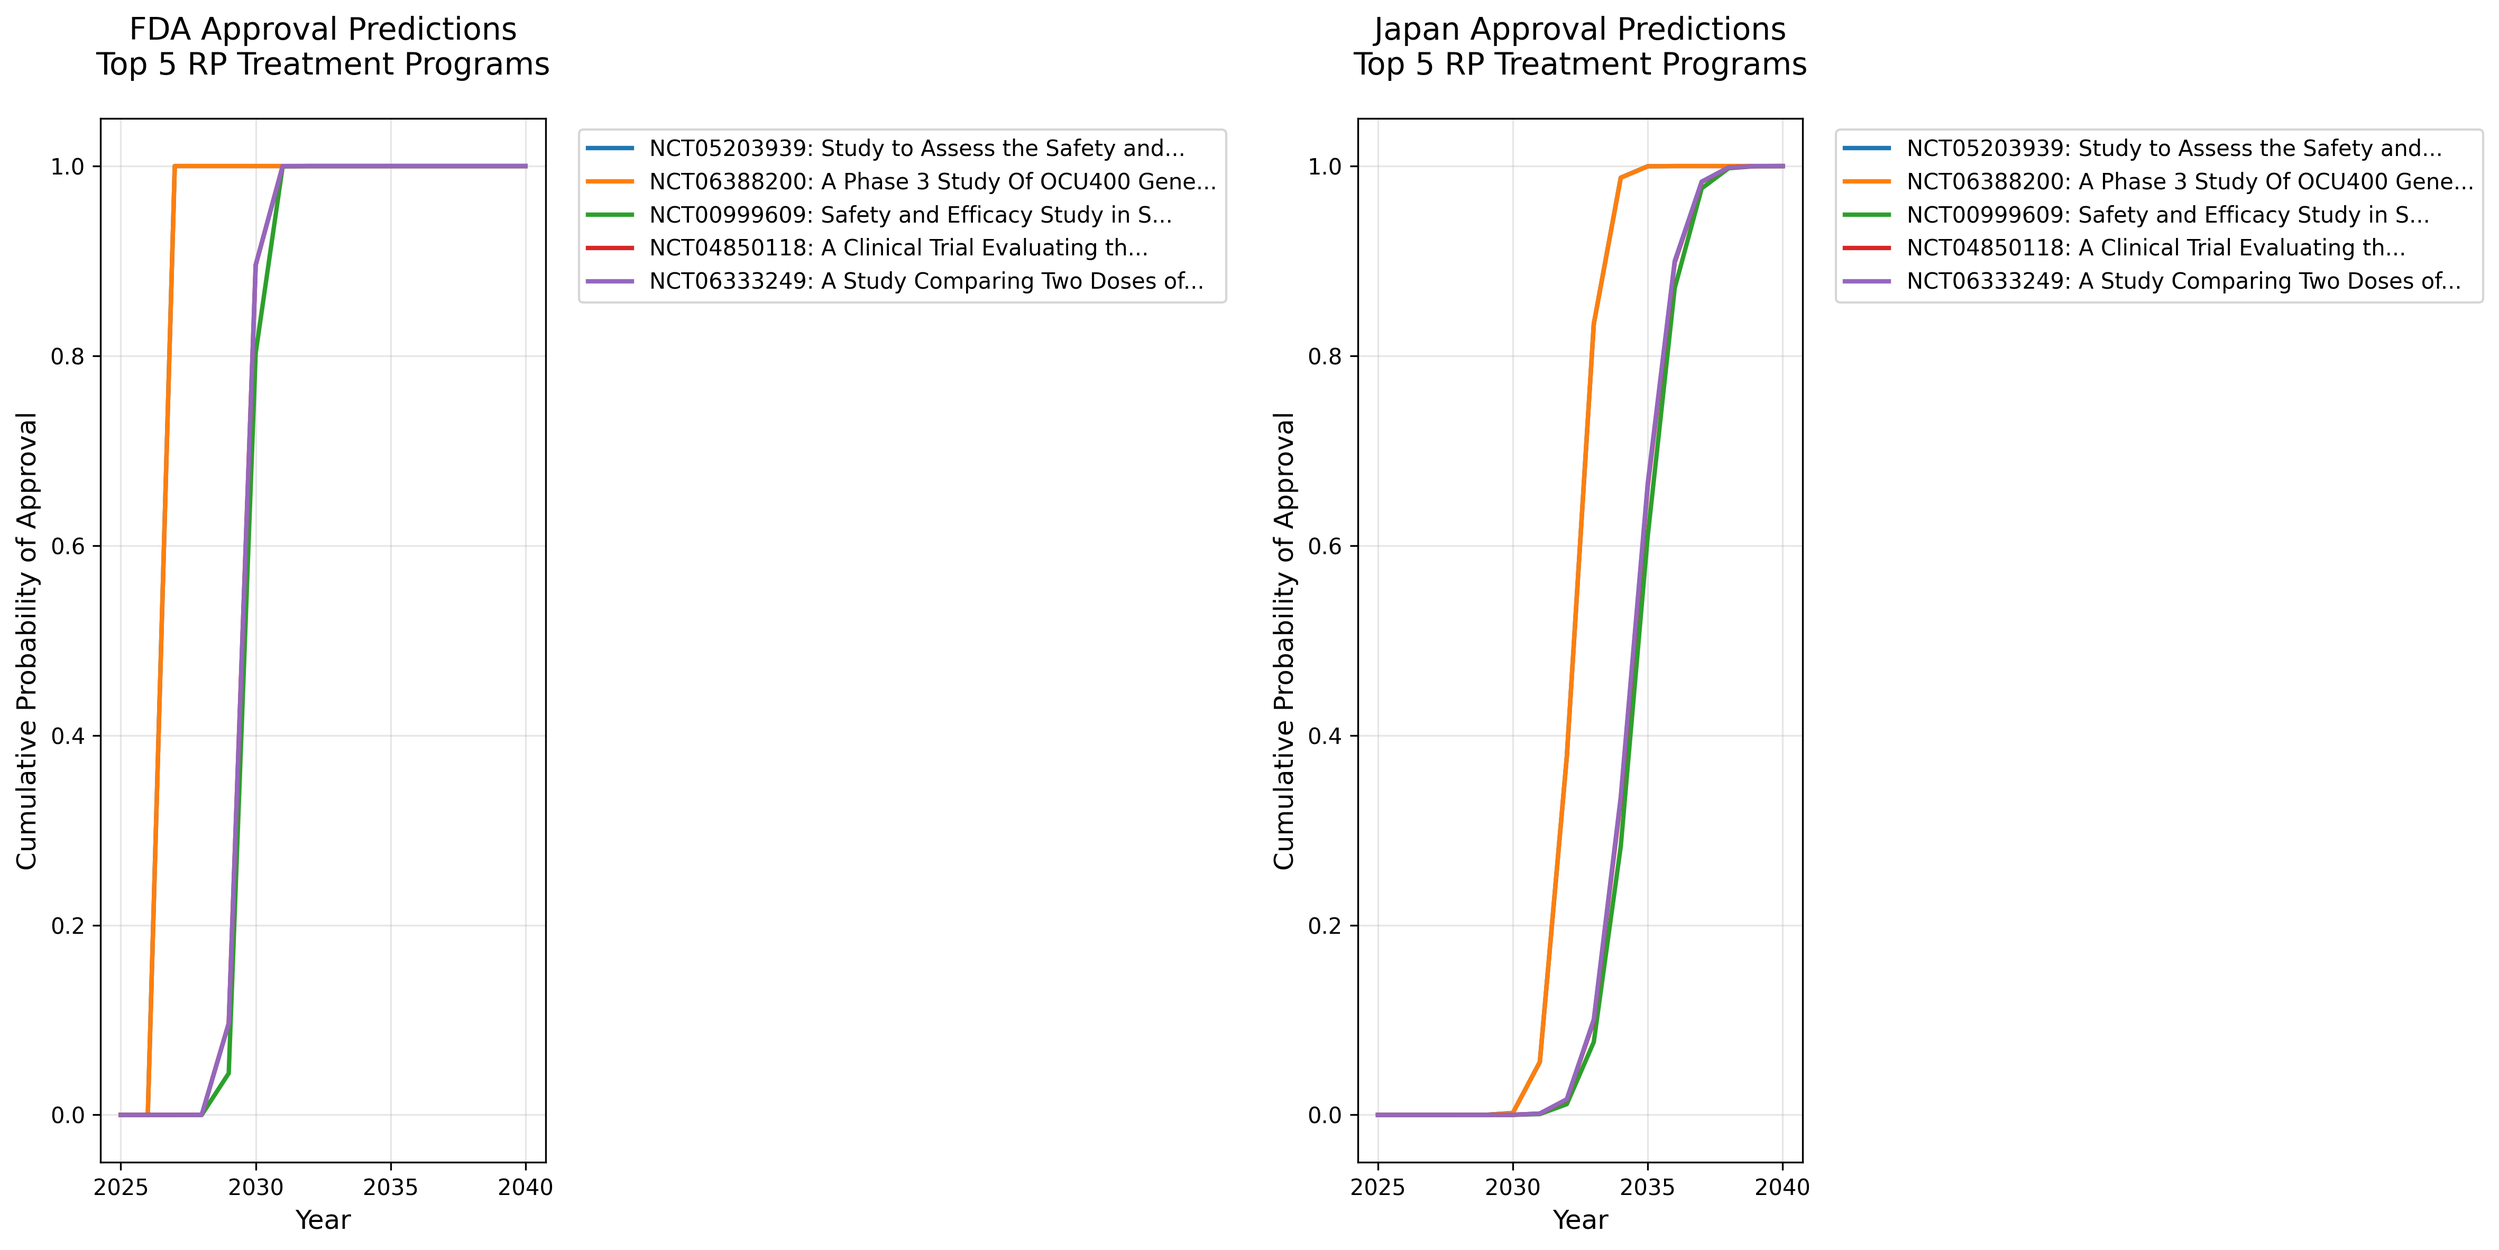
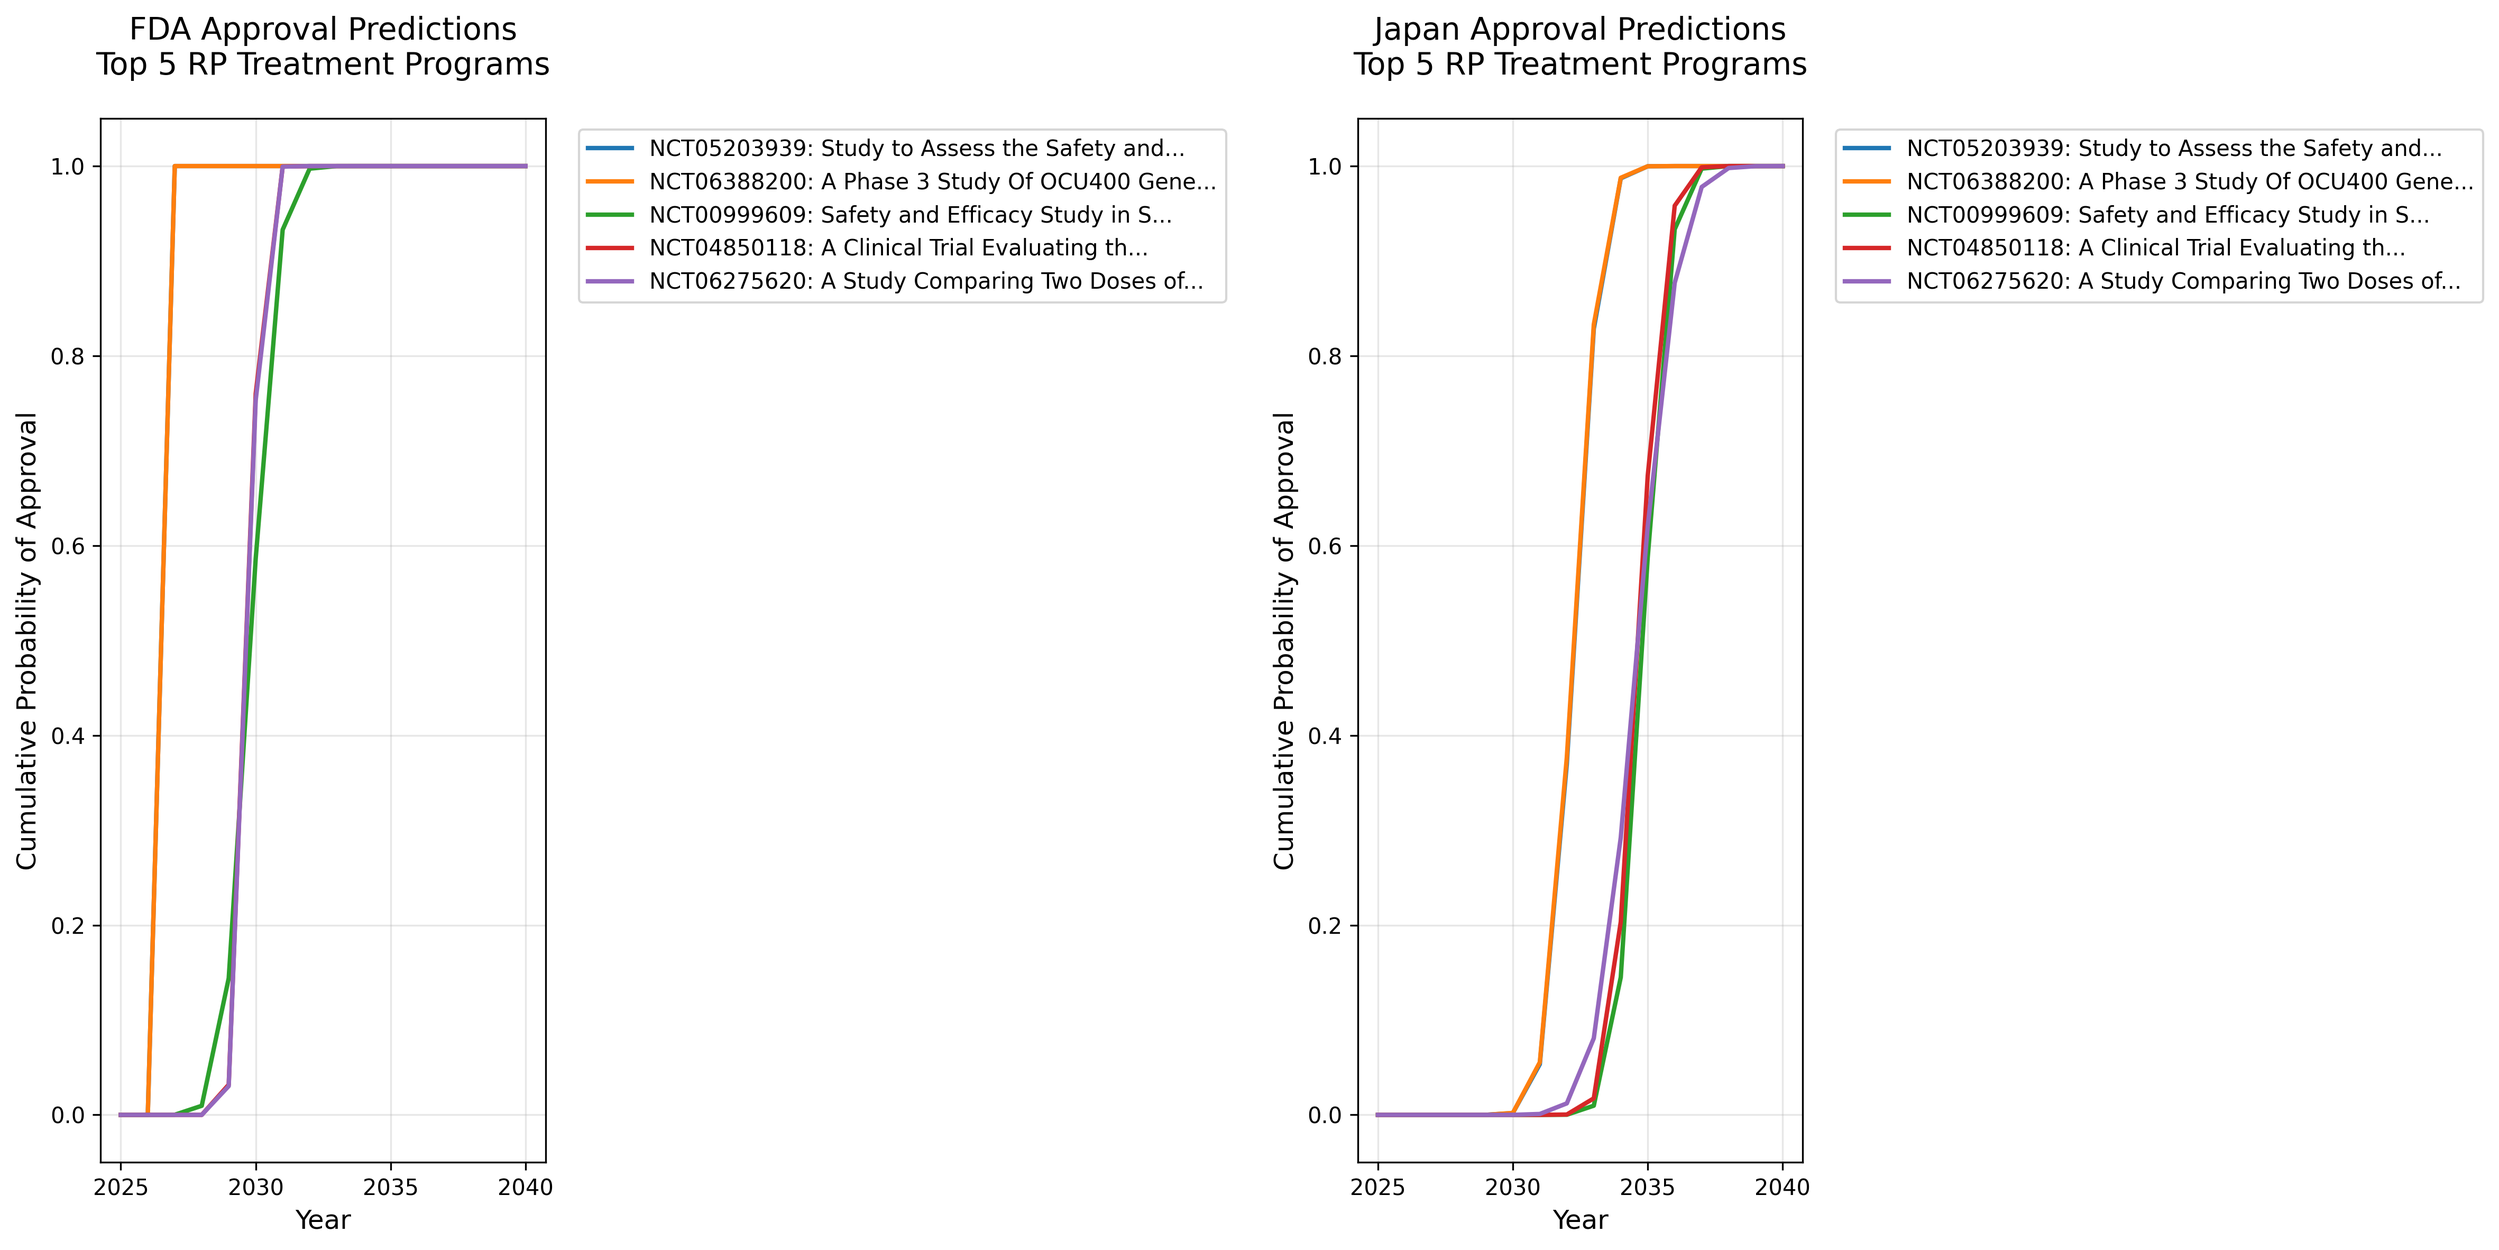
deploy: 39242694ccb8804c6a3a86e3a8fc95ccf287dc17

diff --git a/public/report.html b/public/report.html
@@ -189,7 +189,7 @@
         </nav>
         
         <h1>網膜色素変性症（RP）治療開発ロードマップ</h1>
-<p>生成日時: 2026年01月03日 13:00</p>
+<p>生成日時: 2026年02月27日 03:41</p>
 <h2>エグゼクティブサマリー</h2>
 <p>本レポートは、網膜色素変性症（Retinitis Pigmentosa, RP）の治療法開発状況を定量的に分析し、効果的な治療法がいつ頃利用可能になるかを予測したものです。</p>
 <h3>主要な発見（米国FDA承認基準）</h3>
@@ -197,7 +197,7 @@
 <li><strong>最速の承認予測</strong>: 2026年（MCO-010光遺伝学治療）</li>
 <li>根拠: <a href="https://clinicaltrials.gov/study/NCT04945772" rel="noopener noreferrer" target="_blank">https://clinicaltrials.gov/study/NCT04945772</a></li>
 <li><strong>全体の中央値</strong>: 2037年（複数の治療法が利用可能になる時期）</li>
-<li><strong>現在アクティブな臨床試験</strong>: 56件（重要な完了試験含む）</li>
+<li><strong>現在アクティブな臨床試験</strong>: 59件（重要な完了試験含む）</li>
 <li><strong>成功率</strong>: Phase 1: 86.2%, Phase 2: 78.4%, Phase 3: 71.4%</li>
 </ul>
 <p>⚠ <strong>重要</strong>: 上記の予測は<strong>米国FDA承認</strong>を基準としています。<br/>
@@ -208,14 +208,14 @@
 <h3>臨床試験データ</h3>
 <ul>
 <li><strong>データソース</strong>: ClinicalTrials.gov</li>
-<li><strong>総試験数</strong>: 132件</li>
-<li><strong>アクティブな試験</strong>: 53件</li>
+<li><strong>総試験数</strong>: 135件</li>
+<li><strong>アクティブな試験</strong>: 56件</li>
 <li><strong>完了した試験</strong>: 52件</li>
 </ul>
 <h3>文献データ</h3>
 <ul>
 <li><strong>データソース</strong>: PubMed</li>
-<li><strong>総論文数</strong>: 853件</li>
+<li><strong>総論文数</strong>: 860件</li>
 <li><strong>検索クエリ</strong>: "retinitis pigmentosa" AND ("gene therapy" OR "cell therapy")</li>
 <li><strong>期間</strong>: 1993-2026年</li>
 </ul>
@@ -230,11 +230,11 @@
 <tbody>
 <tr>
 <td>2026</td>
-<td data-label="論文数">2</td>
+<td data-label="論文数">14</td>
 </tr>
 <tr>
 <td>2025</td>
-<td data-label="論文数">88</td>
+<td data-label="論文数">83</td>
 </tr>
 <tr>
 <td>2024</td>
@@ -297,10 +297,10 @@
 <td data-label="治療法名">Safety and Efficacy Study in Subjects Wi...</td>
 <td data-label="フェーズ">PHASE3</td>
 <td data-label="スポンサー">Spark Therapeutics, Inc.</td>
-<td data-label="成功率">72.1%</td>
+<td data-label="成功率">72.4%</td>
 <td data-label="FDA承認予測（中央値）">2030年</td>
 <td data-label="日本承認予測（中央値）">2035年</td>
-<td data-label="90%信頼区間（FDA）">[2029, 2030]</td>
+<td data-label="90%信頼区間（FDA）">[2029, 2031]</td>
 </tr>
 <tr>
 <td>NCT04850118</td>
@@ -310,16 +310,6 @@
 <td data-label="成功率">100.0%</td>
 <td data-label="FDA承認予測（中央値）">2030年</td>
 <td data-label="日本承認予測（中央値）">2035年</td>
-<td data-label="90%信頼区間（FDA）">[2029, 2030]</td>
-</tr>
-<tr>
-<td>NCT06333249</td>
-<td data-label="治療法名">A Study Comparing Two Doses of AGTC-501 ...</td>
-<td data-label="フェーズ">PHASE2</td>
-<td data-label="スポンサー">Beacon Therapeutics</td>
-<td data-label="成功率">100.0%</td>
-<td data-label="FDA承認予測（中央値）">2030年</td>
-<td data-label="日本承認予測（中央値）">2034年</td>
 <td data-label="90%信頼区間（FDA）">[2029, 2030]</td>
 </tr>
 <tr>
@@ -333,11 +323,21 @@
 <td data-label="90%信頼区間（FDA）">[2029, 2030]</td>
 </tr>
 <tr>
-<td>NCT07082855</td>
-<td data-label="治療法名">A Multicenter, Randomized, Double-Blind,...</td>
+<td>NCT06333249</td>
+<td data-label="治療法名">A Study Comparing Two Doses of AGTC-501 ...</td>
+<td data-label="フェーズ">PHASE2</td>
+<td data-label="スポンサー">Beacon Therapeutics</td>
+<td data-label="成功率">100.0%</td>
+<td data-label="FDA承認予測（中央値）">2030年</td>
+<td data-label="日本承認予測（中央値）">2035年</td>
+<td data-label="90%信頼区間（FDA）">[2029, 2030]</td>
+</tr>
+<tr>
+<td>NCT07290530</td>
+<td data-label="治療法名">24-Month Trial of NPI-001 for the Preser...</td>
 <td data-label="フェーズ">PHASE3</td>
-<td data-label="スポンサー">Zhongshan Ophthalmic Center, Sun Yat-sen University</td>
-<td data-label="成功率">71.1%</td>
+<td data-label="スポンサー">Nacuity Pharmaceuticals, Inc.</td>
+<td data-label="成功率">71.6%</td>
 <td data-label="FDA承認予測（中央値）">2033年</td>
 <td data-label="日本承認予測（中央値）">2038年</td>
 <td data-label="90%信頼区間（FDA）">[2032, 2034]</td>
@@ -347,17 +347,17 @@
 <td data-label="治療法名">Oral N-acetylcysteine for Retinitis Pigm...</td>
 <td data-label="フェーズ">PHASE3</td>
 <td data-label="スポンサー">Johns Hopkins University</td>
-<td data-label="成功率">71.1%</td>
+<td data-label="成功率">71.9%</td>
 <td data-label="FDA承認予測（中央値）">2033年</td>
 <td data-label="日本承認予測（中央値）">2038年</td>
 <td data-label="90%信頼区間（FDA）">[2032, 2034]</td>
 </tr>
 <tr>
-<td>NCT07290530</td>
-<td data-label="治療法名">24-Month Trial of NPI-001 for the Preser...</td>
+<td>NCT07082855</td>
+<td data-label="治療法名">A Multicenter, Randomized, Double-Blind,...</td>
 <td data-label="フェーズ">PHASE3</td>
-<td data-label="スポンサー">Nacuity Pharmaceuticals, Inc.</td>
-<td data-label="成功率">71.0%</td>
+<td data-label="スポンサー">Zhongshan Ophthalmic Center, Sun Yat-sen University</td>
+<td data-label="成功率">71.7%</td>
 <td data-label="FDA承認予測（中央値）">2033年</td>
 <td data-label="日本承認予測（中央値）">2038年</td>
 <td data-label="90%信頼区間（FDA）">[2032, 2034]</td>
@@ -367,7 +367,7 @@
 <td data-label="治療法名">Long-term Safety and Efficacy Follow-up ...</td>
 <td data-label="フェーズ">PHASE3</td>
 <td data-label="スポンサー">NightstaRx Ltd, a Biogen Company</td>
-<td data-label="成功率">70.9%</td>
+<td data-label="成功率">71.2%</td>
 <td data-label="FDA承認予測（中央値）">2033年</td>
 <td data-label="日本承認予測（中央値）">2038年</td>
 <td data-label="90%信頼区間（FDA）">[2032, 2034]</td>
@@ -405,21 +405,14 @@
 <td>NCT00999609</td>
 <td data-label="FDA承認予測">2030年</td>
 <td data-label="日本承認予測（中央値）"><strong>2035年</strong></td>
-<td data-label="日本承認90%信頼区間">[2033, 2036]</td>
+<td data-label="日本承認90%信頼区間">[2034, 2036]</td>
 <td data-label="遅延期間（中央値）">+5.0年</td>
 </tr>
 <tr>
 <td>NCT04850118</td>
 <td data-label="FDA承認予測">2030年</td>
 <td data-label="日本承認予測（中央値）"><strong>2035年</strong></td>
-<td data-label="日本承認90%信頼区間">[2033, 2036]</td>
-<td data-label="遅延期間（中央値）">+5.0年</td>
-</tr>
-<tr>
-<td>NCT06333249</td>
-<td data-label="FDA承認予測">2030年</td>
-<td data-label="日本承認予測（中央値）"><strong>2034年</strong></td>
-<td data-label="日本承認90%信頼区間">[2033, 2036]</td>
+<td data-label="日本承認90%信頼区間">[2034, 2036]</td>
 <td data-label="遅延期間（中央値）">+5.0年</td>
 </tr>
 <tr>
@@ -430,7 +423,14 @@
 <td data-label="遅延期間（中央値）">+5.0年</td>
 </tr>
 <tr>
-<td>NCT07082855</td>
+<td>NCT06333249</td>
+<td data-label="FDA承認予測">2030年</td>
+<td data-label="日本承認予測（中央値）"><strong>2035年</strong></td>
+<td data-label="日本承認90%信頼区間">[2034, 2036]</td>
+<td data-label="遅延期間（中央値）">+5.0年</td>
+</tr>
+<tr>
+<td>NCT07290530</td>
 <td data-label="FDA承認予測">2033年</td>
 <td data-label="日本承認予測（中央値）"><strong>2038年</strong></td>
 <td data-label="日本承認90%信頼区間">[2036, 2039]</td>
@@ -444,7 +444,7 @@
 <td data-label="遅延期間（中央値）">+5.0年</td>
 </tr>
 <tr>
-<td>NCT07290530</td>
+<td>NCT07082855</td>
 <td data-label="FDA承認予測">2033年</td>
 <td data-label="日本承認予測（中央値）"><strong>2038年</strong></td>
 <td data-label="日本承認90%信頼区間">[2036, 2039]</td>
@@ -463,7 +463,7 @@
 <h3>治療モダリティ別の状況</h3>
 <h4>遺伝子治療</h4>
 <ul>
-<li><strong>試験数</strong>: 34件</li>
+<li><strong>試験数</strong>: 36件</li>
 <li><strong>主要なターゲット遺伝子</strong>: RPGR, RPE65, PDE6A, USH2A</li>
 <li><strong>最速FDA承認予測</strong>: 2026年（MCO-010光遺伝学治療）</li>
 </ul>
@@ -486,7 +486,7 @@
 <ul>
 <li><strong>PHASE2 duration</strong> (increase 20%): +0.8年の影響</li>
 <li><strong>PHASE3 duration</strong> (increase 20%): +0.8年の影響</li>
-<li><strong>PHASE1 duration</strong> (increase 20%): +0.2年の影響</li>
+<li><strong>PHASE1 duration</strong> (increase 20%): +0.6年の影響</li>
 </ul>
 <h2>4. 予測の可視化</h2>
 <h3>累積承認確率</h3>

diff --git a/public/index.html b/public/index.html
@@ -158,7 +158,7 @@
             
             <!-- 更新情報 -->
             <div class="update-info">
-                最終更新: 2026年1月3日 | データソース: ClinicalTrials.gov, PubMed
+                最終更新: 2026年2月27日 | データソース: ClinicalTrials.gov, PubMed
             </div>
             
             <!-- 3つの選択パス -->

diff --git a/content/main/index.md b/content/main/index.md
@@ -1,6 +1,6 @@
 # 網膜色素変性症（RP）治療開発ロードマップ
 
-生成日時: 2026年01月03日 13:00
+生成日時: 2026年02月27日 03:41
 
 ## エグゼクティブサマリー
 
@@ -11,7 +11,7 @@
 - **最速の承認予測**: 2026年（MCO-010光遺伝学治療）
   - 根拠: https://clinicaltrials.gov/study/NCT04945772
 - **全体の中央値**: 2037年（複数の治療法が利用可能になる時期）
-- **現在アクティブな臨床試験**: 56件（重要な完了試験含む）
+- **現在アクティブな臨床試験**: 59件（重要な完了試験含む）
 - **成功率**: Phase 1: 86.2%, Phase 2: 78.4%, Phase 3: 71.4%
 
 ⚠ **重要**: 上記の予測は**米国FDA承認**を基準としています。
@@ -23,21 +23,21 @@
 
 ### 臨床試験データ
 - **データソース**: ClinicalTrials.gov
-- **総試験数**: 132件
-- **アクティブな試験**: 53件
+- **総試験数**: 135件
+- **アクティブな試験**: 56件
 - **完了した試験**: 52件
 
 ### 文献データ
 - **データソース**: PubMed
-- **総論文数**: 853件
+- **総論文数**: 860件
 - **検索クエリ**: "retinitis pigmentosa" AND ("gene therapy" OR "cell therapy")
 - **期間**: 1993-2026年
 
 #### 年別論文数（直近5年）
 | 年 | 論文数 |
 |---|--------|
-| 2026 | 2 |
-| 2025 | 88 |
+| 2026 | 14 |
+| 2025 | 83 |
 | 2024 | 63 |
 | 2023 | 99 |
 | 2022 | 67 |
@@ -56,14 +56,14 @@
 |--------|----------|----------|------------|--------|---------------------|---------------------|------------------|
 | NCT05203939 | Study to Assess the Safety and Efficacy ... | PHASE1, PHASE2 | Ocugen | 100.0% | 2027年 | 2032年 | [2027, 2027] |
 | NCT06388200 | A Phase 3 Study Of OCU400 Gene Therapy f... | PHASE3 | Ocugen | 100.0% | 2027年 | 2032年 | [2027, 2027] |
-| NCT00999609 | Safety and Efficacy Study in Subjects Wi... | PHASE3 | Spark Therapeutics, Inc. | 72.1% | 2030年 | 2035年 | [2029, 2030] |
+| NCT00999609 | Safety and Efficacy Study in Subjects Wi... | PHASE3 | Spark Therapeutics, Inc. | 72.4% | 2030年 | 2035年 | [2029, 2031] |
 | NCT04850118 | A Clinical Trial Evaluating the Safety a... | PHASE2, PHASE3 | Beacon Therapeutics | 100.0% | 2030年 | 2035年 | [2029, 2030] |
-| NCT06333249 | A Study Comparing Two Doses of AGTC-501 ... | PHASE2 | Beacon Therapeutics | 100.0% | 2030年 | 2034年 | [2029, 2030] |
 | NCT06275620 | A Study Comparing Two Doses of AGTC-501 ... | PHASE2 | Beacon Therapeutics | 100.0% | 2030年 | 2035年 | [2029, 2030] |
-| NCT07082855 | A Multicenter, Randomized, Double-Blind,... | PHASE3 | Zhongshan Ophthalmic Center, Sun Yat-sen University | 71.1% | 2033年 | 2038年 | [2032, 2034] |
-| NCT05537220 | Oral N-acetylcysteine for Retinitis Pigm... | PHASE3 | Johns Hopkins University | 71.1% | 2033年 | 2038年 | [2032, 2034] |
-| NCT07290530 | 24-Month Trial of NPI-001 for the Preser... | PHASE3 | Nacuity Pharmaceuticals, Inc. | 71.0% | 2033年 | 2038年 | [2032, 2034] |
-| NCT03584165 | Long-term Safety and Efficacy Follow-up ... | PHASE3 | NightstaRx Ltd, a Biogen Company | 70.9% | 2033年 | 2038年 | [2032, 2034] |
+| NCT06333249 | A Study Comparing Two Doses of AGTC-501 ... | PHASE2 | Beacon Therapeutics | 100.0% | 2030年 | 2035年 | [2029, 2030] |
+| NCT07290530 | 24-Month Trial of NPI-001 for the Preser... | PHASE3 | Nacuity Pharmaceuticals, Inc. | 71.6% | 2033年 | 2038年 | [2032, 2034] |
+| NCT05537220 | Oral N-acetylcysteine for Retinitis Pigm... | PHASE3 | Johns Hopkins University | 71.9% | 2033年 | 2038年 | [2032, 2034] |
+| NCT07082855 | A Multicenter, Randomized, Double-Blind,... | PHASE3 | Zhongshan Ophthalmic Center, Sun Yat-sen University | 71.7% | 2033年 | 2038年 | [2032, 2034] |
+| NCT03584165 | Long-term Safety and Efficacy Follow-up ... | PHASE3 | NightstaRx Ltd, a Biogen Company | 71.2% | 2033年 | 2038年 | [2032, 2034] |
 
 
 ### 日本での承認予測
@@ -74,13 +74,13 @@
 |--------|------------|---------------------|-------------------|---------------------|
 | NCT05203939 | 2027年 | **2032年** | [2031, 2033] | +5.0年 |
 | NCT06388200 | 2027年 | **2032年** | [2031, 2033] | +5.0年 |
-| NCT00999609 | 2030年 | **2035年** | [2033, 2036] | +5.0年 |
-| NCT04850118 | 2030年 | **2035年** | [2033, 2036] | +5.0年 |
-| NCT06333249 | 2030年 | **2034年** | [2033, 2036] | +5.0年 |
+| NCT00999609 | 2030年 | **2035年** | [2034, 2036] | +5.0年 |
+| NCT04850118 | 2030年 | **2035年** | [2034, 2036] | +5.0年 |
 | NCT06275620 | 2030年 | **2035年** | [2033, 2036] | +5.0年 |
-| NCT07082855 | 2033年 | **2038年** | [2036, 2039] | +5.0年 |
-| NCT05537220 | 2033年 | **2038年** | [2036, 2039] | +5.0年 |
+| NCT06333249 | 2030年 | **2035年** | [2034, 2036] | +5.0年 |
 | NCT07290530 | 2033年 | **2038年** | [2036, 2039] | +5.0年 |
+| NCT05537220 | 2033年 | **2038年** | [2036, 2039] | +5.0年 |
+| NCT07082855 | 2033年 | **2038年** | [2036, 2039] | +5.0年 |
 | NCT03584165 | 2033年 | **2038年** | [2036, 2039] | +5.0年 |
 
 
@@ -89,7 +89,7 @@
 ### 治療モダリティ別の状況
 
 #### 遺伝子治療
-- **試験数**: 34件
+- **試験数**: 36件
 - **主要なターゲット遺伝子**: RPGR, RPE65, PDE6A, USH2A
 - **最速FDA承認予測**: 2026年（MCO-010光遺伝学治療）
 
@@ -112,7 +112,7 @@
 ### 主要な影響要因
 - **PHASE2 duration** (increase 20%): +0.8年の影響
 - **PHASE3 duration** (increase 20%): +0.8年の影響
-- **PHASE1 duration** (increase 20%): +0.2年の影響
+- **PHASE1 duration** (increase 20%): +0.6年の影響
 
 
 ## 4. 予測の可視化
